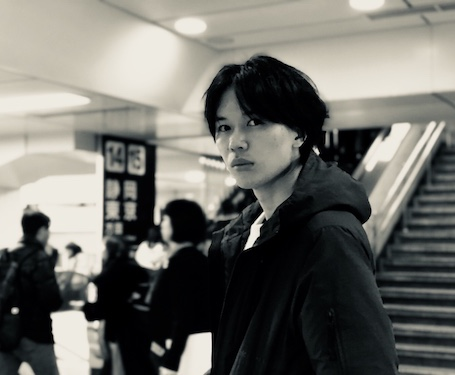
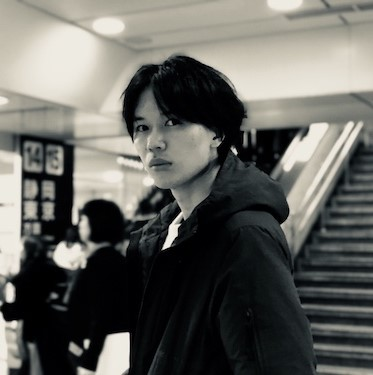
画像追加

diff --git a/member.html b/member.html
@@ -82,7 +82,7 @@
             <table style="width:100%">
               <tr>
                 <td class="intropicutre">
-                  <element class="member"><img src="img\member\oyama.jpg"></element>
+                  <element class="member"><img src="img\member\oyamajacket.jpeg"></element>
                 </td>
                 <td><span class="award-name">大山雄己</span>
                 <br>
@@ -176,7 +176,7 @@
                 <br>
                 <研究キーワード> マルチモーダルNDP・街路空間再配分<br>
                 <出身> 高齢者<br>
-                <趣味> 高齢者</span>
+                <趣味> 研究</span>
                 </td>
               </tr>
               <tr>
@@ -209,7 +209,7 @@
                 <br>
                 <研究キーワード> マルチモーダルNDP・街路空間再配分<br>
                 <出身> 高齢者<br>
-                <趣味> 高齢者</span>
+                <趣味> 散歩</span>
                 </td>
               </tr>
               <tr>
@@ -236,13 +236,13 @@
               </tr>
               <tr>
                 <td class="intropicutre">
-                  <element class="member"><img src="img\sihk.jpg"></element>
+                  <element class="member"><img src="img\member\miwa.jpg"></element>
                 </td>
                 <td><span class="award-name">三輪咲季
                 <br>
                 <研究キーワード> マルチモーダルNDP・街路空間再配分<br>
                 <出身> 高齢者<br>
-                <趣味> 高齢者</span>
+                <趣味> 楽器演奏，音楽鑑賞</span>
                 </td>
               </tr>
               <tr>
